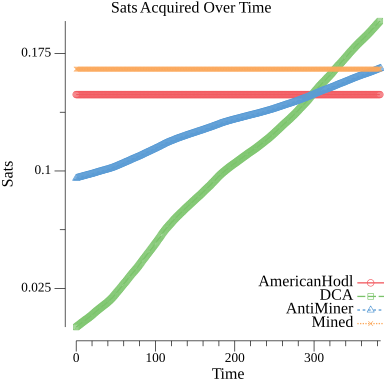
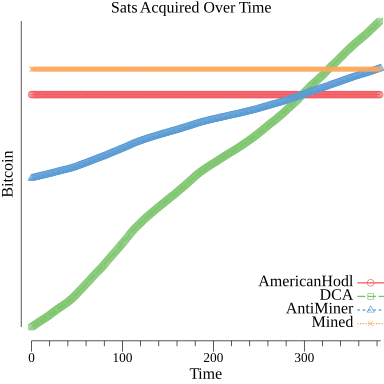
Ability to hide graph y-axis for opsec, README explains graph lines

diff --git a/main.go b/main.go
@@ -3,6 +3,7 @@ package main
 import (
 	"flag"
 	"fmt"
+	"image/color"
 	"io/ioutil"
 	"log"
 	"math"
@@ -13,14 +14,18 @@ import (
 
 	"github.com/tidwall/gjson"
 	"gonum.org/v1/plot"
+	"gonum.org/v1/plot/font"
 	"gonum.org/v1/plot/plotter"
 	"gonum.org/v1/plot/plotutil"
+	"gonum.org/v1/plot/text"
 	"gonum.org/v1/plot/vg"
+	"gonum.org/v1/plot/vg/draw"
 )
 
 func main() {
 	var slushToken, messariApiKey, startDate string
 	var kwhPrice, watts, uptimePercent, fixedCosts, bitcoinMined float64
+	var hideBitcoinOnGraph bool
 	flag.StringVar(&slushToken, "slushToken", "default-token", "Specify Slush Pool token.")
 	flag.Float64Var(&kwhPrice, "kwhPrice", 0.15, "Specify price paid per kilowatt hour.")
 	flag.Float64Var(&watts, "watts", 3200, "Specify watts used in total.")
@@ -29,6 +34,8 @@ func main() {
 	flag.Float64Var(&bitcoinMined, "bitcoinMined", 0, "Specify total bitcoin mined (use whole bitcoin units not sats).")
 	flag.StringVar(&startDate, "startDate", "01/01/2022", "Specify start date of mining operation.")
 	flag.StringVar(&messariApiKey, "messariApiKey", "default", "Specify Messari API Key")
+	flag.BoolVar(&hideBitcoinOnGraph, "hideBitcoinOnGraph", false, "Will hide sats on y-axis of graph, good for opsec when sharing the image. true to hide, false to keep the figure displayed")
+
 	flag.Parse()
 	if slushToken == "default-token" && bitcoinMined == 0 {
 		fmt.Printf("Must enter either slush api token or bitcoinMined")
@@ -97,7 +104,8 @@ func main() {
 	// MessariData(messariApiKey)
 	antiHomeMinerData, antiHomeMinerSats := AntiHomeMiner(fixedCosts, electricCosts, unixDaysSinceStart, priceData)
 	fmt.Printf("antiHomeMinerSats: %v\n", antiHomeMinerSats)
-	MakePlot(ahData, swanData, antiHomeMinerData, bitcoinMined)
+	MakePlot(ahData, swanData, antiHomeMinerData, bitcoinMined, hideBitcoinOnGraph)
+
 }
 
 func DateToUnixTimestamp(start string) (timestamp string, err error) {
@@ -387,13 +395,23 @@ func MakeMinedSatsData(ahData []float64, minedSats float64) (minedData []float64
 	return
 }
 
-func MakePlot(ahData, swanData, antiMinerData []float64, minedSats float64) {
-
+func MakePlot(ahData, swanData, antiMinerData []float64, minedSats float64, hideAxis bool) {
 	minedSatsData := MakeMinedSatsData(ahData, minedSats)
 	p := plot.New()
+	// p.Y.Tick.Label
 	p.Title.Text = "Sats Acquired Over Time"
 	p.X.Label.Text = "Time"
-	p.Y.Label.Text = "Sats"
+	p.Y.Label.Text = "Bitcoin"
+	if hideAxis {
+		p.Y.Tick.Length = 0
+		p.Y.Tick.Label = text.Style{
+			Color:   color.White,
+			Font:    font.From(plot.DefaultFont, 0),
+			XAlign:  draw.XCenter,
+			YAlign:  draw.YBottom,
+			Handler: plot.DefaultTextHandler,
+		}
+	}
 	err := plotutil.AddLinePoints(p,
 		"AmericanHodl", plotData(ahData),
 		"DCA", plotData(swanData),
@@ -404,7 +422,7 @@ func MakePlot(ahData, swanData, antiMinerData []float64, minedSats float64) {
 	}
 
 	// Save the plot to a PNG file.
-	if err := p.Save(4*vg.Inch, 4*vg.Inch, "points.png"); err != nil {
+	if err := p.Save(4*vg.Inch, 4*vg.Inch, "points2.png"); err != nil {
 		panic(err)
 	}
 }

diff --git a/README.md b/README.md
@@ -8,17 +8,18 @@ Flags
 
 <ul>
 <li><code>-token</code> slush pool token (https://slushpool.com/settings/access/) you can use this flag or the `-bitcoinMined` flag if you dont use slush</li>
-<li><code>-startDate </code> mm/dd/yyyy format for start date of mining operation</li>
-<li><code>-kwhPrice </code> price paid per kilowatt-hour</li>
-<li><code>-watts </code> watts used by the miers</li>
-<li><code>-uptimePercent </code> percent of time mining operation is online (expressed as an integer)</li>
-<li><code>-fixedCosts </code> total costs of miners, hardware, and other operational fixed costs</li>
-<li><code>-startDate </code> date of mining operation start</li>
-<li><code>-bitcoinMined </code> amount of bitcoin mined (whole bitcoin units not sats)</li>
-<li><code>-messariApiKey </code> api key from messari.io for historical price data</li>
+<li><code>-startDate</code> mm/dd/yyyy format for start date of mining operation</li>
+<li><code>-kwhPrice</code> price paid per kilowatt-hour</li>
+<li><code>-watts</code> watts used by the miers</li>
+<li><code>-uptimePercent</code> percent of time mining operation is online (expressed as an integer)</li>
+<li><code>-fixedCosts</code> total costs of miners, hardware, and other operational fixed costs</li>
+<li><code>-startDate</code> date of mining operation start</li>
+<li><code>-bitcoinMined</code> amount of bitcoin mined (whole bitcoin units not sats)</li>
+<li><code>-messariApiKey</code> api key from messari.io for historical price data</li>
+<li><code>-hideBitcoinOnGraph</code> Will hide sats on y-axis of graph, good for opsec when sharing the image. true to hide, false to keep the figure displayed</li>
 </ul>
 
-Example: `go run main.go -token abc123 -startDate 01/01/2022 -kwhPrice .14 -watts 3300 -uptimePercent 98 -fixedCosts 7500`
+Example: `go run main.go -token abc123 -startDate 01/01/2022 -kwhPrice .14 -watts 3300 -uptimePercent 98 -fixedCosts 7500 -hideBitcoinOnGraph=true`
 
 Output (these are made up figures for the example here):
 ```
@@ -42,7 +43,12 @@ bitcoin mined: 0.165
 americanHodlSats: 0.14876496984524967
 swanSats: 0.19568394600938765
 antiHomeMinerSats: 0.16560611084814553
-
 ```
 
 ![Example output plot](example-points.png)
+
+<h3>Lines Explained</h3>
+<li><b>AmericanHodl</b> - This strategy is if on the first day you slam bought al the sats with all the fiat. This fiat amount is the sum of your mining operations fixed costs plus all the costs in electricity usage</li>
+<li><b>DCA</b> Short for "Dollar cost averaging" this strategy refers to taking the sum of the fixed and varialbe costs (electric), dividing this number by total number of days since mining started, and stacked that amount of dollars worth of sats each day</li>
+<li><b>AntiMiner</b> This strategy refers to the person who spend an equal number of dollars on bitcoin purchasing each time the miner spends money on a cost. So on the first day, they buy the amount of bitcoin (in fiat terms) equal to the amount for the mining operation's fixed cost setup. Each day after they purchase the amount of bitcoin equal to the amount the miner spent of electricity that day</li>
+<li><b>Mined</b> This line represents total bitcoin mined. This tool does not yet support entering amount miner per day to generate a proper historical line, and really should be represented as a singular point all the way on the last day of the x-axis. However, that becomes visually hard to see and for optics I simply had it plot as the entire width of the axis.</li>
